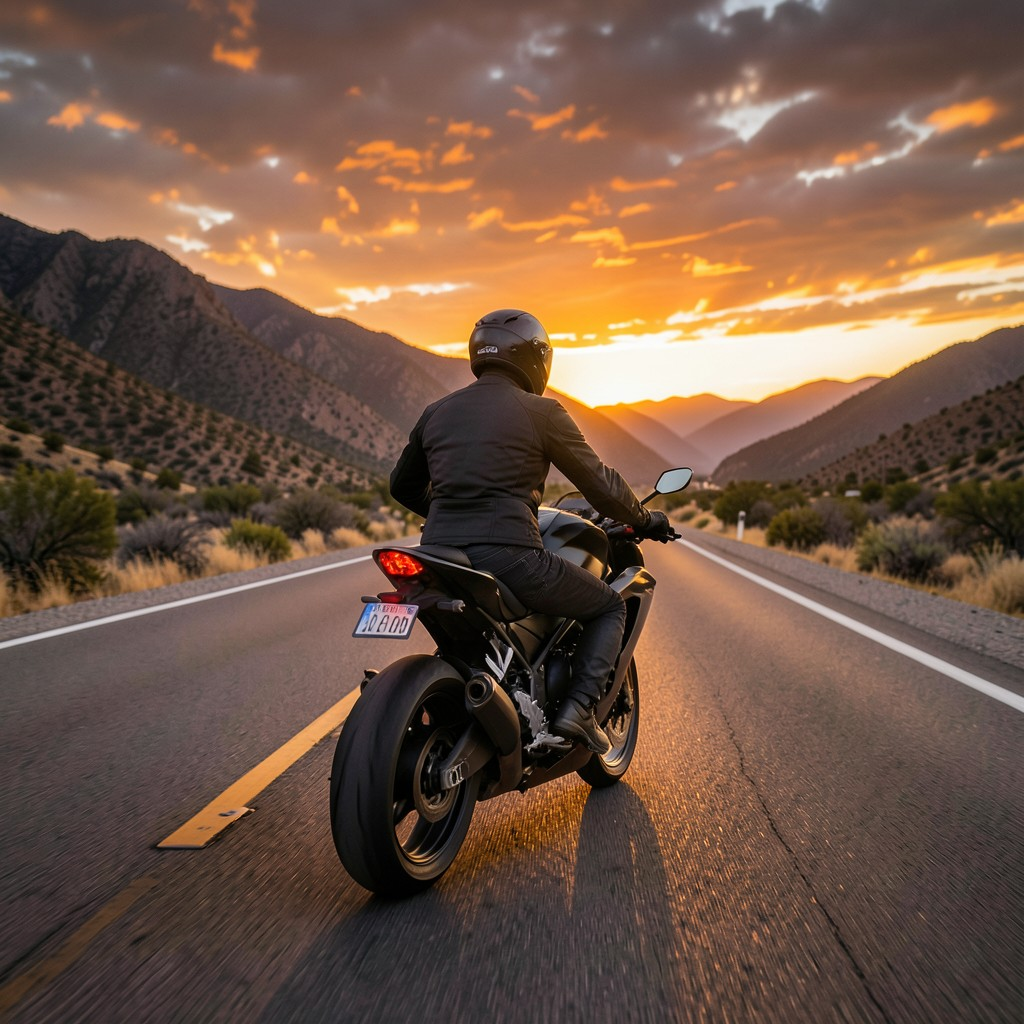
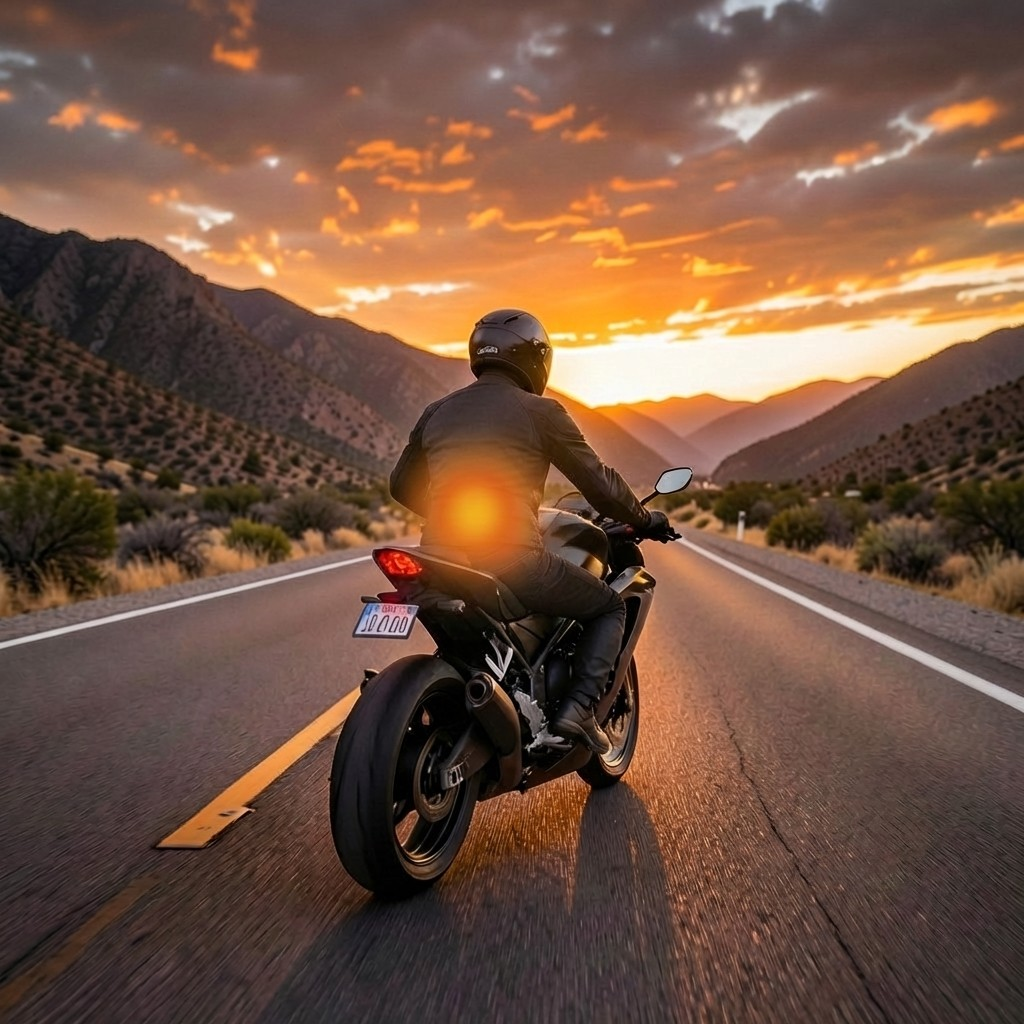
AI: Updated 1 page(s), Added 1 image(s)

diff --git a/src/pages/ui/IndexUI.tsx b/src/pages/ui/IndexUI.tsx
@@ -211,12 +211,42 @@ export const IndexUI = ({ logic }: IndexUIProps) => {
             </div>
 
             <div className="relative">
-              <img
-                src={LIFESTYLE_HIGHWAY}
-                alt="Rider en carretera experimentando fatiga lumbar"
-                className="w-full rounded-lg object-cover aspect-square shadow-2xl"
-                loading="lazy"
-              />
+              <div className="relative rounded-lg overflow-hidden aspect-square shadow-2xl">
+                <img
+                  src={LIFESTYLE_HIGHWAY}
+                  alt="Rider en carretera experimentando fatiga lumbar"
+                  className="w-full h-full object-cover"
+                  loading="lazy"
+                />
+                {/* Lumbar zone glow overlay — visual heat-map effect */}
+                <div
+                  className="absolute pointer-events-none"
+                  style={{
+                    /* Positioned on the rider's lower back area */
+                    bottom: '30%',
+                    left: '38%',
+                    width: '26%',
+                    aspectRatio: '1',
+                    background: 'radial-gradient(circle, rgba(201,139,46,0.75) 0%, rgba(201,139,46,0.45) 30%, rgba(201,100,20,0.25) 55%, transparent 75%)',
+                    borderRadius: '50%',
+                    filter: 'blur(6px)',
+                    mixBlendMode: 'screen',
+                  }}
+                />
+                {/* Outer diffuse ring */}
+                <div
+                  className="absolute pointer-events-none"
+                  style={{
+                    bottom: '27%',
+                    left: '33%',
+                    width: '36%',
+                    aspectRatio: '1',
+                    background: 'radial-gradient(circle, transparent 40%, rgba(201,139,46,0.12) 65%, transparent 80%)',
+                    borderRadius: '50%',
+                    filter: 'blur(10px)',
+                  }}
+                />
+              </div>
               <div className="absolute -bottom-6 -left-6 bg-brand-graphite border border-white/[0.08] rounded-lg p-5 shadow-2xl max-w-[220px]">
                 <p className="font-sora font-bold text-brand-amber text-2xl mb-1">+80%</p>
                 <p className="text-brand-smoke text-xs font-inter">de riders siente fatiga en zona lumbar después de trayectos frecuentes</p>

diff --git a/.lovivo/plan.md b/.lovivo/plan.md
@@ -12,9 +12,11 @@ Full premium landing page + premium product detail page are built. The store tar
 - **Fonts:** Sora (headings) + Inter (body)
 - **Tone:** Premium, technical, masculine, motorcycle lifestyle — NOT medical/orthopedic
 
-## Recent Changes (Session 5)
-- Replaced generated `lifestyle-highway-v2.jpg` with user-uploaded real photo (rider de espaldas en carretera serpenteante, cactos, luz dorada, RODATA visible en cinturón)
-- `LIFESTYLE_HIGHWAY` in ProductPageUI.tsx now points to: `https://ptgmltivisbtvmoxwnhd.supabase.co/storage/v1/object/public/message-images/0f3c776b-9309-4486-bd63-fd732b7d8db1/1775768374485-uca4dkx21g.webp`
+## Recent Changes (Session 6)
+- `imagegen--edit_image` tool confirmed WORKING — returns visible images, AI can see results
+- Limitation discovered: Gemini does NOT add graphical overlays (heat maps, glows) well over photorealistic photos — it regenerates the scene without the overlay
+- `/lifestyle-3.jpg` improved quality (Mexican mountain desert road, dramatic sunset, rider from behind)
+- "El problema real" section image now has CSS radial-gradient amber glow overlay simulating a lumbar heat-map effect (like Motocush reference) — positioned at rider's lower back area using `mixBlendMode: screen`
 
 ## Image Assets (Current)
 | File | Usage | Notes |
@@ -25,7 +27,7 @@ Full premium landing page + premium product detail page are built. The store tar
 | `supabase/...uca4dkx21g.webp` | PDP "Menos fatiga. Más rodada." (LIFESTYLE_HIGHWAY) | **USER REAL PHOTO** — rider de espaldas, carretera serpenteante, cactos, luz dorada, RODATA en cinturón |
 | `/lifestyle-1.jpg` | IndexUI lifestyle grid | From previous session |
 | `/lifestyle-2.jpg` | IndexUI lifestyle grid | From previous session |
-| `/lifestyle-3.jpg` | IndexUI problem section + final CTA | From previous session |
+| `/lifestyle-3.jpg` | IndexUI problem section + final CTA | **UPDATED** — Mexican mountain road, sunset, improved quality |
 | `/pdp-lifestyle-1.jpg` | PDP city lifestyle section | From session 2 — verify branding |
 
 ## Product Detail Page (ProductPageUI.tsx) — 11 Sections
@@ -46,7 +48,7 @@ Full premium landing page + premium product detail page are built. The store tar
 12. **Sticky Bottom Bar** — Shows when main CTA scrolls out
 
 ## Landing Page (IndexUI.tsx) — 11 Sections
-1. Hero, 2. Benefits Bar, 3. Problem Section, 4. How It Works, 5. Lifestyle Grid,
+1. Hero, 2. Benefits Bar, 3. Problem Section (**lumbar glow overlay added**), 4. How It Works, 5. Lifestyle Grid,
 6. For Whom, 7. Comparison Table, 8. Testimonials, 9. Guarantee, 10. FAQ, 11. Final CTA
 
 ## Product Info
@@ -56,12 +58,17 @@ Full premium landing page + premium product detail page are built. The store tar
 - Variants: S (60-75cm), M (75-90cm), L (90-100cm), XL (100-115cm)
 - Status: active
 
+## Tool Notes (for future sessions)
+- `imagegen--edit_image`: Works, visible results. Good for style/lighting/scene edits. NOT good for adding graphic overlays (heat maps, glows, logos) on photorealistic photos — use CSS overlays instead.
+- `user-uploads://` URLs: NOT directly accessible by imagegen tools — must use `lov-copy` first to get a proper URL.
+
 ## Next Steps / Known Issues
 - Connect Stripe payment gateway (Dashboard)
 - Update WhatsApp number from 5215500000000 to real number (EcommerceTemplate.tsx + ProductPageUI.tsx)
 - Replace placeholder testimonials with real rider reviews post-launch
 - `/pdp-lifestyle-1.jpg` (city lifestyle quote section) — verify if it has "Motosupport" branding
 - `/lifestyle-1.jpg`, `/lifestyle-2.jpg`, `/lifestyle-3.jpg` — verify if they have "Motosupport" branding
+- Tune CSS glow overlay position once the preview is live (bottom/left percentages may need adjustment)
 
 ## User Preferences
 - Language: Spanish (Mexico)
